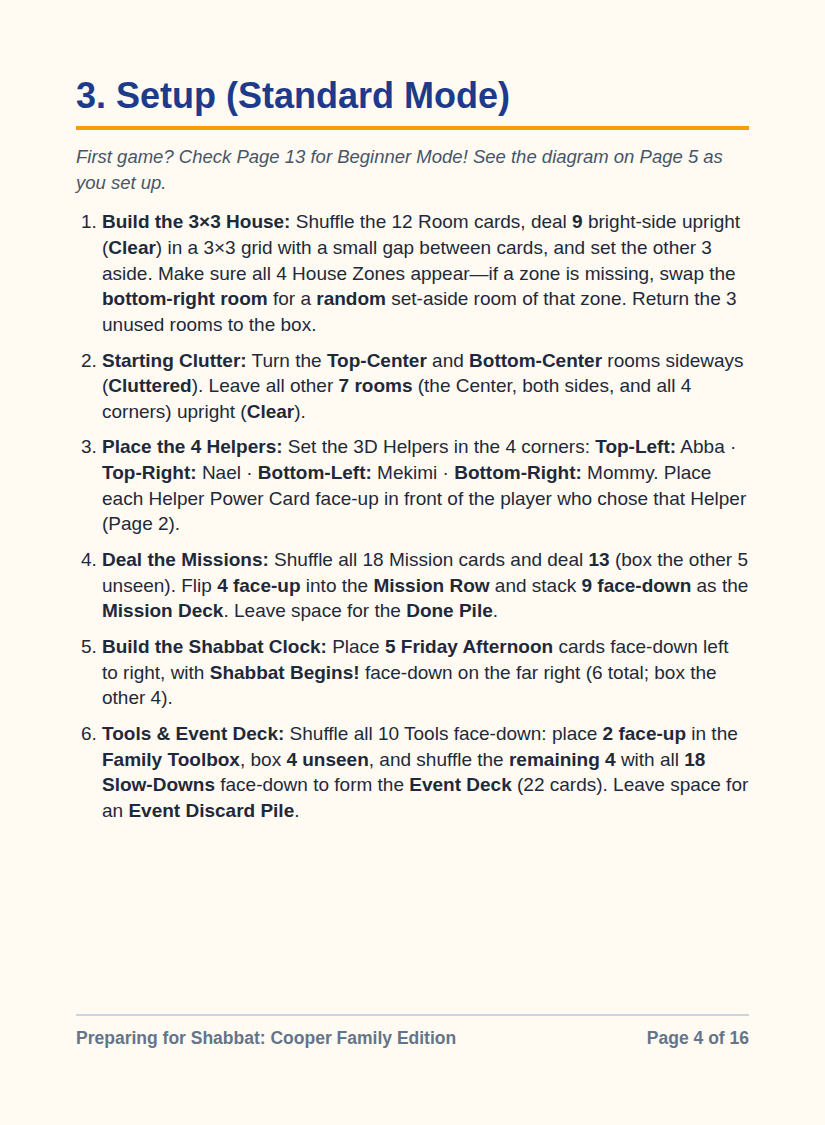
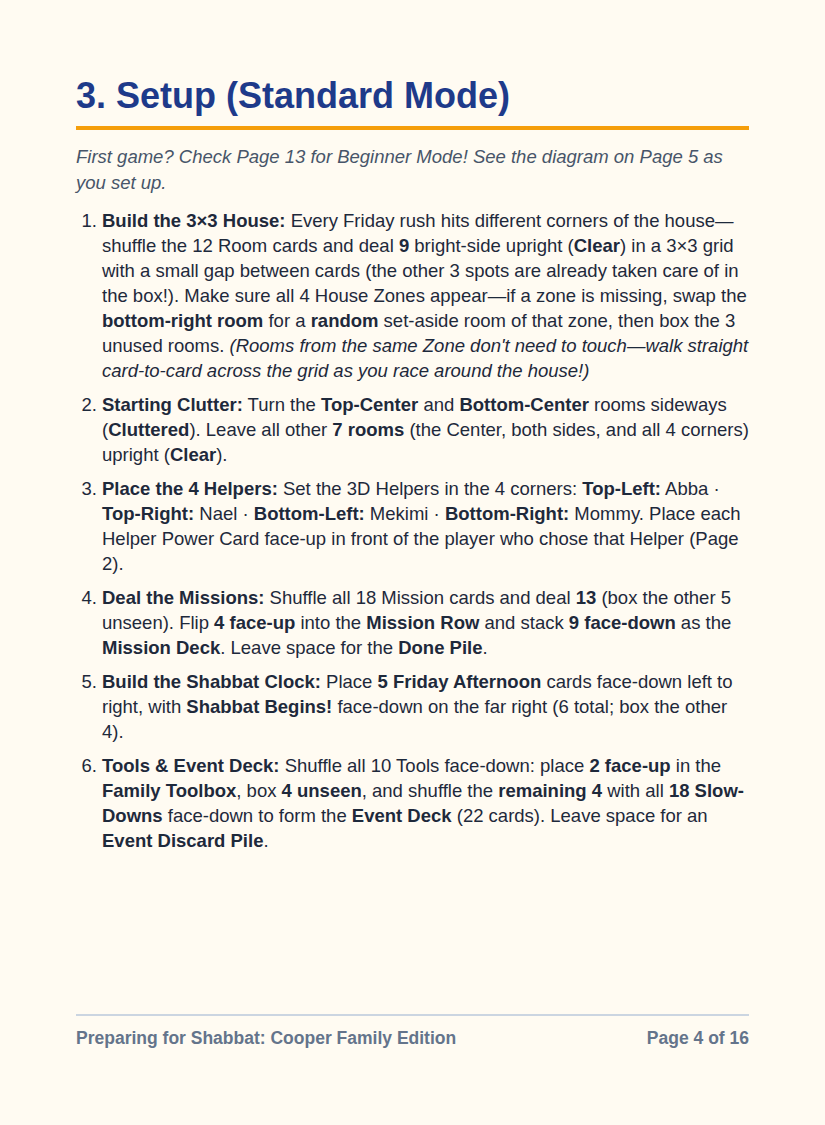
Add Cooper House narrative and 4-Zone room tour to rulebook Pages 2-4

Changed region(s): [[0.0909, 0.1867, 0.9091, 0.7778]]

diff --git a/scripts/generate-d2-print-pack.py b/scripts/generate-d2-print-pack.py
@@ -794,24 +794,24 @@ def build_booklet_pages() -> list[tuple[int, str]]:
     av_nael = avatar_data_uri("nael")
     av_mekimi = avatar_data_uri("mekimi")
 
-    # 4-Zone Visual Legend Strip (Page 3 — pairs each Zone's color + icon!)
+    # 4-Zone Visual House Tour (Page 3 — color, icon, Friday role, and all 3 real rooms per Zone!)
     zone_legend_html = """
-    <div style="display:grid; grid-template-columns:1fr 1fr; gap:8px; margin-top:4px;">
-      <div style="display:flex; align-items:center; gap:9px; background:#FEF3C7; border:2px solid #D97706; border-radius:12px; padding:7px 11px;">
-        <span style="display:inline-flex; align-items:center; justify-content:center; width:34px; height:34px; border-radius:9px; background:#D97706; color:#FFF; flex-shrink:0;">""" + ZONES["KITCHEN"]["icon"] + """</span>
-        <div style="font-size:16.5px; line-height:1.2;"><strong style="color:#92400E;">Kitchen</strong><br><span style="font-size:14px; color:#78350F;">Orange · Chef's Hat</span></div>
+    <div style="display:grid; grid-template-columns:1fr 1fr; gap:8px; margin-top:6px;">
+      <div style="display:flex; align-items:flex-start; gap:8px; background:#FEF3C7; border:2px solid #D97706; border-radius:12px; padding:8px 10px;">
+        <span style="display:inline-flex; align-items:center; justify-content:center; width:30px; height:30px; border-radius:8px; background:#D97706; color:#FFF; flex-shrink:0; margin-top:2px;">""" + ZONES["KITCHEN"]["icon"] + """</span>
+        <div style="font-size:13.5px; line-height:1.25; color:#78350F;"><strong style="font-size:15.5px; color:#92400E;">Kitchen</strong> <span style="font-size:12px;">(Orange · Chef's Hat)</span><br><em>Friday cooking &amp; food prep:</em> <strong>The Giant Island</strong>, <strong>Mixer Counter (Plata &amp; Kumkum)</strong>, <strong>The Fridge</strong>.</div>
       </div>
-      <div style="display:flex; align-items:center; gap:9px; background:#CCFBF1; border:2px solid #0D9488; border-radius:12px; padding:7px 11px;">
-        <span style="display:inline-flex; align-items:center; justify-content:center; width:34px; height:34px; border-radius:9px; background:#0D9488; color:#FFF; flex-shrink:0;">""" + ZONES["DOWNSTAIRS"]["icon"] + """</span>
-        <div style="font-size:16.5px; line-height:1.2;"><strong style="color:#115E59;">Downstairs Balagan</strong><br><span style="font-size:14px; color:#0F766E;">Teal · Toy Blocks</span></div>
+      <div style="display:flex; align-items:flex-start; gap:8px; background:#CCFBF1; border:2px solid #0D9488; border-radius:12px; padding:8px 10px;">
+        <span style="display:inline-flex; align-items:center; justify-content:center; width:30px; height:30px; border-radius:8px; background:#0D9488; color:#FFF; flex-shrink:0; margin-top:2px;">""" + ZONES["DOWNSTAIRS"]["icon"] + """</span>
+        <div style="font-size:13.5px; line-height:1.25; color:#0F766E;"><strong style="font-size:15.5px; color:#115E59;">Downstairs Balagan</strong> <span style="font-size:12px;">(Teal · Toy Blocks)</span><br><em>Main-floor toys &amp; dish pileups:</em> <strong>The Mamad (Playroom)</strong>, <strong>The Salon</strong>, <strong>Sink &amp; Dishwasher</strong>.</div>
       </div>
-      <div style="display:flex; align-items:center; gap:9px; background:#DBEAFE; border:2px solid #2563EB; border-radius:12px; padding:7px 11px;">
-        <span style="display:inline-flex; align-items:center; justify-content:center; width:34px; height:34px; border-radius:9px; background:#2563EB; color:#FFF; flex-shrink:0;">""" + ZONES["TABLE"]["icon"] + """</span>
-        <div style="font-size:16.5px; line-height:1.2;"><strong style="color:#1E40AF;">Table</strong><br><span style="font-size:14px; color:#1E3A8A;">Blue · Shabbat Candles</span></div>
+      <div style="display:flex; align-items:flex-start; gap:8px; background:#DBEAFE; border:2px solid #2563EB; border-radius:12px; padding:8px 10px;">
+        <span style="display:inline-flex; align-items:center; justify-content:center; width:30px; height:30px; border-radius:8px; background:#2563EB; color:#FFF; flex-shrink:0; margin-top:2px;">""" + ZONES["TABLE"]["icon"] + """</span>
+        <div style="font-size:13.5px; line-height:1.25; color:#1E3A8A;"><strong style="font-size:15.5px; color:#1E40AF;">Table</strong> <span style="font-size:12px;">(Blue · Shabbat Candles)</span><br><em>Setting the Shabbat table:</em> <strong>The Dining Table</strong>, <strong>Shabbat Candles Cabinet</strong>, <strong>Chairs</strong>.</div>
       </div>
-      <div style="display:flex; align-items:center; gap:9px; background:#F3E8FF; border:2px solid #7C3AED; border-radius:12px; padding:7px 11px;">
-        <span style="display:inline-flex; align-items:center; justify-content:center; width:34px; height:34px; border-radius:9px; background:#7C3AED; color:#FFF; flex-shrink:0;">""" + ZONES["UPSTAIRS"]["icon"] + """</span>
-        <div style="font-size:16.5px; line-height:1.2;"><strong style="color:#6B21A8;">Upstairs</strong><br><span style="font-size:14px; color:#5B21B6;">Purple · Stairs &amp; Star</span></div>
+      <div style="display:flex; align-items:flex-start; gap:8px; background:#F3E8FF; border:2px solid #7C3AED; border-radius:12px; padding:8px 10px;">
+        <span style="display:inline-flex; align-items:center; justify-content:center; width:30px; height:30px; border-radius:8px; background:#7C3AED; color:#FFF; flex-shrink:0; margin-top:2px;">""" + ZONES["UPSTAIRS"]["icon"] + """</span>
+        <div style="font-size:13.5px; line-height:1.25; color:#5B21B6;"><strong style="font-size:15.5px; color:#6B21A8;">Upstairs</strong> <span style="font-size:12px;">(Purple · Stairs &amp; Star)</span><br><em>Bath time &amp; Shabbat outfits:</em> <strong>The Bathtub</strong>, <strong>The Shower</strong>, <strong>The Bedrooms</strong>.</div>
       </div>
     </div>
     """
@@ -941,54 +941,54 @@ def build_booklet_pages() -> list[tuple[int, str]]:
     pages = [
         # PAGE 2: Welcome, Goal & Choosing Helpers (Strictly Zero Forward References!)
         (2, "1. Welcome, Goal &amp; Players", """
-          <p style="font-size:20.5px; color:#1E3A8A;"><strong>You may think you are just coming to play a game, but today we are Mommy, Abba, Nael, and Mekimi!</strong></p>
-          <p>Work together as a family to finish every <strong>Mission</strong> before <strong>Shabbat Begins!</strong> flips face-up on the <strong>Shabbat Clock</strong>.</p>
-          <div class="callout">
+          <p style="font-size:20px; color:#1E3A8A;"><strong>You may think you are just coming to play a game, but today we are Mommy, Abba, Nael, and Mekimi!</strong></p>
+          <p style="font-size:19.5px;">It's Friday afternoon in Givot Eden—challah is rising, toys are spilling out of the Mamad, and winter sunset is coming fast! Dash through the Cooper house together to finish every <strong>Mission</strong> before <strong>Shabbat Begins!</strong> flips face-up on the <strong>Shabbat Clock</strong>.</p>
+          <div class="callout" style="font-size:19px; padding:13px 16px;">
             <strong>Win Right Away:</strong> The instant your family finishes the final Mission, <strong>Shabbat Shalom—the game ends immediately and you win!</strong><br>
             <strong>Lose Right Away:</strong> If <strong>Shabbat Begins!</strong> flips face-up before all Missions are done, stop right away and try again!
           </div>
-          <p style="font-size:19.5px;"><strong>Table Talk:</strong> This is a collaborative game so discuss freely! The player taking the current turn makes the final call.</p>
-          <div class="callout callout-blue" style="text-align:center; font-size:20.5px; padding:11px 14px;">
+          <p style="font-size:19px;"><strong>Table Talk:</strong> This is a collaborative game so discuss freely! The player taking the current turn makes the final call.</p>
+          <div class="callout callout-blue" style="text-align:center; font-size:20px; padding:10px 14px;">
             <strong>Clockwise Turn Order (Every Game):</strong><br>
             <span style="color:#2563EB; font-weight:800;">1. Abba</span> →
             <span style="color:#059669; font-weight:800;">2. Nael</span> →
             <span style="color:#DB2777; font-weight:800;">3. Mommy</span> →
             <span style="color:#7C3AED; font-weight:800;">4. Mekimi</span>
           </div>
-          <h2>Choosing Helpers (1–4 Players)</h2>
-          <p style="font-size:18.5px;">All 4 Helpers always play in every game. Pick whoever you want—let the youngest player pick first, choose freely, or deal them randomly:</p>
-          <ul style="gap:6px;">
-            <li style="font-size:18.5px;"><strong>4 Players:</strong> Each player controls 1 Helper.</li>
-            <li style="font-size:18.5px;"><strong>3 Players:</strong> One player controls 2 Helpers (for example, Abba &amp; Mekimi); the other two control 1 each.</li>
-            <li style="font-size:18.5px;"><strong>2 Players:</strong> Player 1 controls <strong>Abba &amp; Mommy</strong> (turns 1 &amp; 3); Player 2 controls <strong>Nael &amp; Mekimi</strong> (turns 2 &amp; 4) to alternate every turn!</li>
-            <li style="font-size:18.5px;"><strong>1 Player (Solo):</strong> Control all 4 Helpers in order.</li>
+          <h2 style="margin-top:2px;">Choosing Helpers (1–4 Players)</h2>
+          <p style="font-size:18px;">All 4 Helpers always play in every game. Pick whoever you want—let the youngest player pick first, choose freely, or deal them randomly:</p>
+          <ul style="gap:5px;">
+            <li style="font-size:18px;"><strong>4 Players:</strong> Each player controls 1 Helper.</li>
+            <li style="font-size:18px;"><strong>3 Players:</strong> One player controls 2 Helpers (for example, Abba &amp; Mekimi); the other two control 1 each.</li>
+            <li style="font-size:18px;"><strong>2 Players:</strong> Player 1 controls <strong>Abba &amp; Mommy</strong> (turns 1 &amp; 3); Player 2 controls <strong>Nael &amp; Mekimi</strong> (turns 2 &amp; 4) to alternate every turn!</li>
+            <li style="font-size:18px;"><strong>1 Player (Solo):</strong> Control all 4 Helpers in order.</li>
           </ul>
         """),
 
-        # PAGE 3: What's in the Box (Purely Physical Inventory + 4-Zone Visual Legend!)
+        # PAGE 3: What's in the Box (Physical Inventory + Cooper House 4-Zone Tour!)
         (3, "2. What's in the Box (72 Cards)", f"""
-          <p style="font-size:19.5px;">Everything fits in <strong>72 poker-size cards</strong> plus your <strong>4 3D-Printed Family Helpers</strong>:</p>
-          <div class="box-card" style="padding:11px 14px;">
-            <h2 style="margin-top:0; font-size:20.5px;">Rooms &amp; Helpers (16 cards)</h2>
-            <ul style="gap:5px;">
-              <li style="font-size:18.5px;"><strong>12 Double-Sided Room Cards:</strong> 3 rooms in each of the 4 House Zones—an illustrated room scene on the front and a red-striped <strong>Blocked</strong> side on the back (the Zone badge stays visible on both sides).</li>
-              <li style="font-size:18.5px;"><strong>4 Helper Power Cards:</strong> <strong>Abba</strong>, <strong>Nael</strong>, <strong>Mommy</strong>, and <strong>Mekimi</strong> (matching your 4 3D-Printed Family Helpers).</li>
+          <p style="font-size:19px;">Everything fits in <strong>72 poker-size cards</strong> plus your <strong>4 3D-Printed Family Helpers</strong>:</p>
+          <div class="box-card" style="padding:10px 14px;">
+            <h2 style="margin-top:0; font-size:20px;">The Cooper House &amp; Helpers (16 cards)</h2>
+            <ul style="gap:4px;">
+              <li style="font-size:17.5px;"><strong>12 Double-Sided Room Cards:</strong> 3 real spots in each of the <strong>4 House Zones</strong>—bright room art on the front and a red-striped <strong>Blocked</strong> side on the back (the Zone badge stays visible on both sides).</li>
+              <li style="font-size:17.5px;"><strong>4 Helper Power Cards:</strong> <strong>Abba</strong>, <strong>Nael</strong>, <strong>Mommy</strong>, and <strong>Mekimi</strong> (matching your 4 3D-Printed Family Helpers).</li>
             </ul>
             {zone_legend_html}
           </div>
-          <div class="box-card" style="padding:11px 14px;">
-            <h2 style="margin-top:0; font-size:20.5px;">Missions Deck (18 cards)</h2>
-            <ul style="gap:5px;">
-              <li style="font-size:18.5px;"><strong>10 Team Chores</strong> (marked <strong>TEAM CHORE · 2+</strong>)</li>
-              <li style="font-size:18.5px;"><strong>8 Errands</strong> (marked <strong>ERRAND · Start → End</strong>)</li>
+          <div class="box-card" style="padding:10px 14px;">
+            <h2 style="margin-top:0; font-size:20px;">Missions Deck (18 cards)</h2>
+            <ul style="gap:4px;">
+              <li style="font-size:18px;"><strong>10 Team Chores</strong> (marked <strong>TEAM CHORE · 2+</strong>)</li>
+              <li style="font-size:18px;"><strong>8 Errands</strong> (marked <strong>ERRAND · Start → End</strong>)</li>
             </ul>
           </div>
-          <div class="box-card" style="padding:11px 14px;">
-            <h2 style="margin-top:0; font-size:20.5px;">Shabbat Clock (10) &amp; Friday Events (28)</h2>
-            <ul style="gap:5px;">
-              <li style="font-size:18.5px;"><strong>10 Clock Cards:</strong> 9 <em>Friday Afternoon</em> + 1 <em>Shabbat Begins!</em></li>
-              <li style="font-size:18.5px;"><strong>18 Slow-Downs:</strong> 15 Single-Zone, 2 Double Trouble, and 1 Time Flies.</li>
-              <li style="font-size:18.5px;"><strong>10 Household Tools:</strong> 4 <em>Ice Coffee Boost</em>, 3 <em>Strategic Snack Summons</em>, and 3 <em>Cousin Aviel Drops By!</em></li>
+          <div class="box-card" style="padding:10px 14px;">
+            <h2 style="margin-top:0; font-size:20px;">Shabbat Clock (10) &amp; Friday Events (28)</h2>
+            <ul style="gap:4px;">
+              <li style="font-size:18px;"><strong>10 Clock Cards:</strong> 9 <em>Friday Afternoon</em> + 1 <em>Shabbat Begins!</em></li>
+              <li style="font-size:18px;"><strong>18 Slow-Downs:</strong> 15 Single-Zone, 2 Double Trouble, and 1 Time Flies.</li>
+              <li style="font-size:18px;"><strong>10 Household Tools:</strong> 4 <em>Ice Coffee Boost</em>, 3 <em>Strategic Snack Summons</em>, and 3 <em>Cousin Aviel Drops By!</em></li>
             </ul>
           </div>
         """),
@@ -996,13 +996,13 @@ def build_booklet_pages() -> list[tuple[int, str]]:
         # PAGE 4: Setup (Standard Mode) — Faces Table Layout Page 5!
         (4, "3. Setup (Standard Mode)", """
           <p style="font-size:18.5px; color:#475569;"><em>First game? Check Page 13 for Beginner Mode! See the diagram on Page 5 as you set up.</em></p>
-          <ol style="gap:10px;">
-            <li style="font-size:19px;"><strong>Build the 3×3 House:</strong> Shuffle the 12 Room cards, deal <strong>9</strong> bright-side upright (<strong>Clear</strong>) in a 3×3 grid with a small gap between cards, and set the other 3 aside. Make sure all 4 House Zones appear—if a zone is missing, swap the <strong>bottom-right room</strong> for a <strong>random</strong> set-aside room of that zone. Return the 3 unused rooms to the box.</li>
-            <li style="font-size:19px;"><strong>Starting Clutter:</strong> Turn the <strong>Top-Center</strong> and <strong>Bottom-Center</strong> rooms sideways (<strong>Cluttered</strong>). Leave all other <strong>7 rooms</strong> (the Center, both sides, and all 4 corners) upright (<strong>Clear</strong>).</li>
-            <li style="font-size:19px;"><strong>Place the 4 Helpers:</strong> Set the 3D Helpers in the 4 corners: <strong>Top-Left:</strong> Abba · <strong>Top-Right:</strong> Nael · <strong>Bottom-Left:</strong> Mekimi · <strong>Bottom-Right:</strong> Mommy. Place each Helper Power Card face-up in front of the player who chose that Helper (Page 2).</li>
-            <li style="font-size:19px;"><strong>Deal the Missions:</strong> Shuffle all 18 Mission cards and deal <strong>13</strong> (box the other 5 unseen). Flip <strong>4 face-up</strong> into the <strong>Mission Row</strong> and stack <strong>9 face-down</strong> as the <strong>Mission Deck</strong>. Leave space for the <strong>Done Pile</strong>.</li>
-            <li style="font-size:19px;"><strong>Build the Shabbat Clock:</strong> Place <strong>5 Friday Afternoon</strong> cards face-down left to right, with <strong>Shabbat Begins!</strong> face-down on the far right (6 total; box the other 4).</li>
-            <li style="font-size:19px;"><strong>Tools &amp; Event Deck:</strong> Shuffle all 10 Tools face-down: place <strong>2 face-up</strong> in the <strong>Family Toolbox</strong>, box <strong>4 unseen</strong>, and shuffle the <strong>remaining 4</strong> with all <strong>18 Slow-Downs</strong> face-down to form the <strong>Event Deck</strong> (22 cards). Leave space for an <strong>Event Discard Pile</strong>.</li>
+          <ol style="gap:9px;">
+            <li style="font-size:18.5px;"><strong>Build the 3×3 House:</strong> Every Friday rush hits different corners of the house—shuffle the 12 Room cards and deal <strong>9</strong> bright-side upright (<strong>Clear</strong>) in a 3×3 grid with a small gap between cards (the other 3 spots are already taken care of in the box!). Make sure all 4 House Zones appear—if a zone is missing, swap the <strong>bottom-right room</strong> for a <strong>random</strong> set-aside room of that zone, then box the 3 unused rooms. <em>(Rooms from the same Zone don't need to touch—walk straight card-to-card across the grid as you race around the house!)</em></li>
+            <li style="font-size:18.5px;"><strong>Starting Clutter:</strong> Turn the <strong>Top-Center</strong> and <strong>Bottom-Center</strong> rooms sideways (<strong>Cluttered</strong>). Leave all other <strong>7 rooms</strong> (the Center, both sides, and all 4 corners) upright (<strong>Clear</strong>).</li>
+            <li style="font-size:18.5px;"><strong>Place the 4 Helpers:</strong> Set the 3D Helpers in the 4 corners: <strong>Top-Left:</strong> Abba · <strong>Top-Right:</strong> Nael · <strong>Bottom-Left:</strong> Mekimi · <strong>Bottom-Right:</strong> Mommy. Place each Helper Power Card face-up in front of the player who chose that Helper (Page 2).</li>
+            <li style="font-size:18.5px;"><strong>Deal the Missions:</strong> Shuffle all 18 Mission cards and deal <strong>13</strong> (box the other 5 unseen). Flip <strong>4 face-up</strong> into the <strong>Mission Row</strong> and stack <strong>9 face-down</strong> as the <strong>Mission Deck</strong>. Leave space for the <strong>Done Pile</strong>.</li>
+            <li style="font-size:18.5px;"><strong>Build the Shabbat Clock:</strong> Place <strong>5 Friday Afternoon</strong> cards face-down left to right, with <strong>Shabbat Begins!</strong> face-down on the far right (6 total; box the other 4).</li>
+            <li style="font-size:18.5px;"><strong>Tools &amp; Event Deck:</strong> Shuffle all 10 Tools face-down: place <strong>2 face-up</strong> in the <strong>Family Toolbox</strong>, box <strong>4 unseen</strong>, and shuffle the <strong>remaining 4</strong> with all <strong>18 Slow-Downs</strong> face-down to form the <strong>Event Deck</strong> (22 cards). Leave space for an <strong>Event Discard Pile</strong>.</li>
           </ol>
         """),
 

diff --git a/RULES.md b/RULES.md
@@ -10,7 +10,7 @@ Components: 72 poker-size cards + 4 3D-Printed Family Helpers (Abba, Nael, Mommy
 
 **You may think you are just coming to play a game, but today we are Mommy, Abba, Nael, and Mekimi!**
 
-Work together as a family to finish every **Mission** before **Shabbat Begins!** flips face-up on the **Shabbat Clock**.
+It's Friday afternoon in Givot Eden—challah is rising, toys are spilling out of the Mamad, and winter sunset is coming fast! Dash through the Cooper house together to finish every **Mission** before **Shabbat Begins!** flips face-up on the **Shabbat Clock**.
 
 > **Win Right Away:** The instant your family finishes the final Mission, **Shabbat Shalom—the game ends immediately and you win!**
 > **Lose Right Away:** If **Shabbat Begins!** flips face-up before all Missions are done, stop right away and try again!
@@ -34,13 +34,13 @@ All 4 Helpers always play in every game. Pick whoever you want—let the younges
 
 Everything fits in **72 poker-size cards** plus your **4 3D-Printed Family Helpers**:
 
-### Rooms & Helpers (16 cards)
+### The Cooper House & Helpers (16 cards)
 
-- **12 Double-Sided Room Cards:** 3 rooms in each of the 4 House Zones—an illustrated room scene on the front and a red-striped **Blocked** side on the back (the Zone badge stays visible on both sides):
-  - **Kitchen** — Orange · Chef's Hat
-  - **Downstairs Balagan** — Teal · Toy Blocks
-  - **Table** — Blue · Shabbat Candles
-  - **Upstairs** — Purple · Stairs & Star
+- **12 Double-Sided Room Cards:** 3 real spots in each of the **4 House Zones**—bright room art on the front and a red-striped **Blocked** side on the back (the Zone badge stays visible on both sides):
+  - **Kitchen** *(Orange · Chef's Hat)* — *Friday cooking & food prep:* **The Giant Island**, **Mixer Counter (Plata & Kumkum)**, **The Fridge**.
+  - **Downstairs Balagan** *(Teal · Toy Blocks)* — *Main-floor toys & dish pileups:* **The Mamad (Playroom)**, **The Salon**, **Sink & Dishwasher**.
+  - **Table** *(Blue · Shabbat Candles)* — *Setting the Shabbat table:* **The Dining Table**, **Shabbat Candles Cabinet**, **Chairs**.
+  - **Upstairs** *(Purple · Stairs & Star)* — *Bath time & Shabbat outfits:* **The Bathtub**, **The Shower**, **The Bedrooms**.
 - **4 Helper Power Cards:** **Abba**, **Nael**, **Mommy**, and **Mekimi** (matching your 4 3D-Printed Family Helpers).
 
 ### Missions Deck (18 cards)
@@ -60,7 +60,7 @@ Everything fits in **72 poker-size cards** plus your **4 3D-Printed Family Helpe
 
 *First game? Check Section 9 for Beginner Mode! See the Table Layout diagram below as you set up.*
 
-1. **Build the 3×3 House:** Shuffle the 12 Room cards, deal **9** bright-side upright (**Clear**) in a 3×3 grid with a small gap between cards, and set the other 3 aside. Make sure all 4 House Zones appear—if a zone is missing, swap the **bottom-right room** for a **random** set-aside room of that zone. Return the 3 unused rooms to the box.
+1. **Build the 3×3 House:** Every Friday rush hits different corners of the house—shuffle the 12 Room cards and deal **9** bright-side upright (**Clear**) in a 3×3 grid with a small gap between cards (the other 3 spots are already taken care of in the box!). Make sure all 4 House Zones appear—if a zone is missing, swap the **bottom-right room** for a **random** set-aside room of that zone, then box the 3 unused rooms. *(Rooms from the same Zone don't need to touch—walk straight card-to-card across the grid as you race around the house!)*
 2. **Starting Clutter:** Turn the **Top-Center** and **Bottom-Center** rooms sideways (**Cluttered**). Leave all other **7 rooms** (the Center, both sides, and all 4 corners) upright (**Clear**).
 3. **Place the 4 Helpers:** Set the 3D Helpers in the 4 corners: **Top-Left:** Abba · **Top-Right:** Nael · **Bottom-Left:** Mekimi · **Bottom-Right:** Mommy. Place each Helper Power Card face-up in front of the player who chose that Helper (Section 1).
 4. **Deal the Missions:** Shuffle all 18 Mission cards and deal **13** (box the other 5 unseen). Flip **4 face-up** into the **Mission Row** and stack **9 face-down** as the **Mission Deck**. Leave space for the **Done Pile**.
